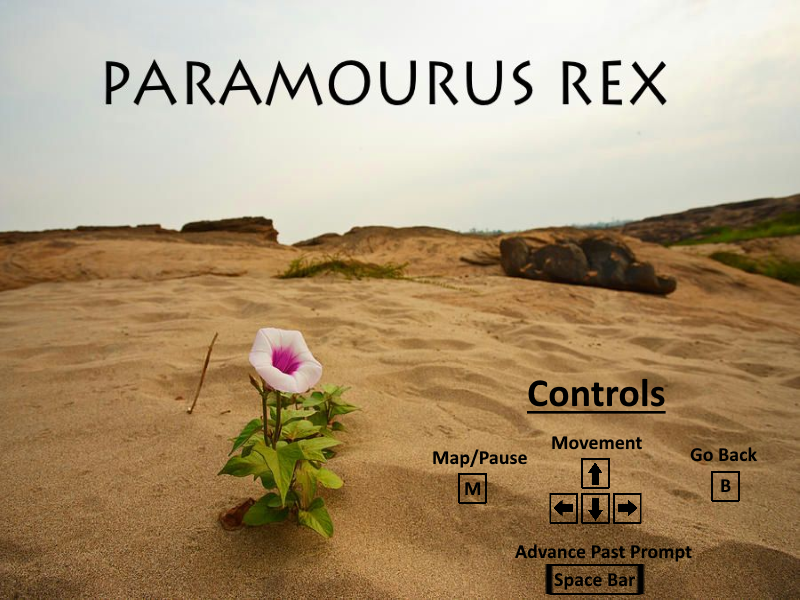
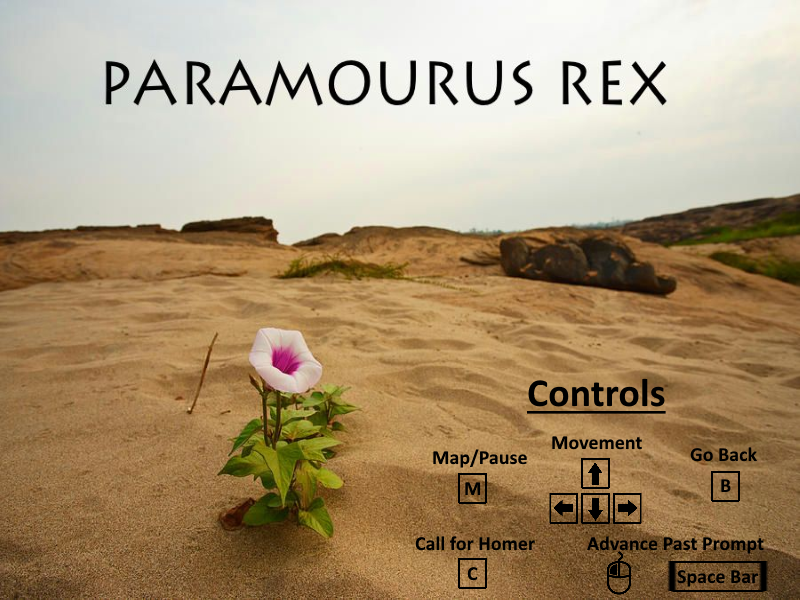
Added Call homer function and fixed bug where vector in level wasnt being reset correctly

Changed region(s): [[0.5, 0.9, 0.9688, 1.0]]

diff --git a/src/LevelView.cpp b/src/LevelView.cpp
@@ -85,6 +85,7 @@ int* LevelView::game_state;
 // pause screen medium map
 bool LevelView::pause_key_pressed = false;
 bool LevelView::back_key_pressed = false;
+bool LevelView::call_key_pressed = false;
 bool LevelView::vases_full = false;
 sf::Text LevelView::title;
 std::string LevelView::title_text;
@@ -123,9 +124,11 @@ void LevelView::Create(const char* resource, int* state, int flowers[]) {
 	reveal_homer = false;
 	pause_key_pressed = false;
 	back_key_pressed = false;
+	call_key_pressed = false;
 	vases_full = false;
 	inVision = 0;
 	flashing = 0;
+	actions.clear();
 	commentary_positions.clear();
 	commentary_strings.clear();
 	commentary_actions.clear();
@@ -327,8 +330,7 @@ void LevelView::Create(const char* resource, int* state, int flowers[]) {
 				//std::cout << tool1.name() << std::endl;
 				actions.push_back(std::vector<pugi::xml_node>());
 				for (pugi::xml_node tool2 = tool1.first_child(); tool2; tool2 = tool2.next_sibling()) {
-					pugi::xml_node temp = tool2;
-					actions.back().push_back(temp);
+					actions.back().push_back(tool2);
 				}
 			}
 		}
@@ -501,6 +503,14 @@ void LevelView::update(sf::RenderWindow *window, int* state, float time) {
 	else if (!sf::Keyboard::isKeyPressed(sf::Keyboard::B)) {
 		back_key_pressed = false;
 	}
+
+	// should we pause the screen?
+	if (sf::Keyboard::isKeyPressed(sf::Keyboard::C) && !call_key_pressed && (view_state == 1)) {
+		call_key_pressed = true;
+		EventInterfacePtr event;
+		event.reset(new ContactEvent(0.f, player->getInstance(), -1));
+		update(event);
+	}
 	
 
 	if (sf::Keyboard::isKeyPressed(sf::Keyboard::Space) && view_state == 0 && ready_to_play && !space_pressed) {
@@ -620,7 +630,7 @@ void LevelView::update(sf::RenderWindow *window, int* state, float time) {
 
 		//Check to see if conditions met to display back button
 		//std::cout << flowers_left << " " << vases_full << " " << inVision << std::endl; 
-		if ((flowers_left <= 0 || vases_full) && inVision <= 0) {
+		if ((flowers_left <= 0 || vases_full || call_key_pressed) && inVision <= 0) {
 			if (view_state == 2 && last_action == -1)
 				reveal_homer = true;
 			else if (view_state != 2) {
@@ -706,21 +716,24 @@ void LevelView::update(EventInterfacePtr e) {
 				ActorId display_id = itr_cs->first.first;
 				ActorId actor_id = itr_cs->first.second.first;
 				ActorId contact_id = itr_cs->first.second.second;
-				if (actor_ptr == NULL && contact_ptr == NULL && display_id == "Homer" && contact_id == "") {
+				//std::cout << "HERE1" << std::endl;
+				if (actor_ptr == NULL && contact_ptr == NULL && (display_id == "Homer" || display_id == "Player")  && contact_id == "") {
 					found  = true;
 				}
-				else if (actor_ptr == NULL && display_id == "Homer") {
+				else if (actor_ptr == NULL && contact_ptr != NULL && display_id == "Homer") {
 					if (contact_ptr->isOfType(contact_id))
 						found = true;
 				}
-				else if (contact_ptr == NULL && contact_id == "") {
+				else if (contact_ptr == NULL && actor_ptr != NULL && contact_id == "") {
 					if (actor_ptr->isOfType(actor_id))
 						found = true;
 				}
-				else if (actor_ptr->isOfType(actor_id) && contact_ptr->isOfType(contact_id)) {
-					found = true;
+				else if (actor_ptr != NULL && contact_ptr != NULL ) {
+					if (actor_ptr->isOfType(actor_id) && contact_ptr->isOfType(contact_id))
+						found = true;
 				}
 				if (found) {
+					//std::cout << "HERE2" << std::endl;
 					int count = -1;
 					int temp_count = -1;
 					for (auto itr_occ = commentary_occurance[DisplayContactPair(display_id, ContactPair(actor_id, contact_id))].begin(); itr_occ != commentary_occurance[DisplayContactPair(display_id, ContactPair(actor_id, contact_id))].end(); itr_occ++) {
@@ -736,19 +749,23 @@ void LevelView::update(EventInterfacePtr e) {
 						}
 					}
 					if (count >= 0) {
+						//std::cout << "HERE3" << std::endl;
 						int action = commentary_actions[DisplayContactPair(display_id, ContactPair(actor_id, contact_id))][count];
 						last_action = action;
 						if (action >= 0) {
 							for (auto action_itr = actions[action].begin(); action_itr != actions[action].end(); action_itr++) {
+								//std::cout << "GENERATED" << std::endl;
 								pugi::xml_node temp = *action_itr;
 								if (!strcmp(temp.name(), "FireFlower") || !strcmp(temp.name(), "EarthFlower") || !strcmp(temp.name(), "WaterFlower") || !strcmp(temp.name(), "AirFlower"))
 									flowers_left++;
+								//std::cout << "GENERATED2" << std::endl;
 								generateActor(&(temp), game_state);
 							}
 						}
 						else if (action == -1) {
 							reveal_homer = true;
 						}
+						//std::cout << "HERE4" << std::endl;
 						int r = rand() % (itr_cs->second)[count].size();
 						if (display_id == "Homer") {
 							commentary[-1] = sf::Text(((itr_cs->second)[count])[r], font);
@@ -760,6 +777,7 @@ void LevelView::update(EventInterfacePtr e) {
 							received_new_commentary = true;
 						}
 						else {
+							//std::cout << "Here4 " << display_id << " " << actor_id << " " << contact_id << " " << action << " " << ((itr_cs->second)[count])[r] <<  std::endl;
 							commentary[e->getSender()] = sf::Text(((itr_cs->second)[count])[r], font);
 							commentary[e->getSender()].setCharacterSize((commentary_sizes[DisplayContactPair(display_id, ContactPair(actor_id, contact_id))]).back());
 							commentary_timer[e->getSender()].restart();
@@ -807,7 +825,7 @@ void LevelView::render(sf::RenderWindow *window) {
 		for (it = actorList.begin(); it != actorList.end(); it++) {
 			if (homer != *it) {
 				(*it)->render(window, false);
-				if ((view_state == 2 && commentary_timer[(*it)->getInstance()].getElapsedTime().asSeconds() < 30) || (commentary_timer[(*it)->getInstance()].getElapsedTime().asSeconds() < 4))
+				if ((commentary_timer[(*it)->getInstance()].getElapsedTime().asSeconds() < 4))
 					window->draw(commentary[(*it)->getInstance()]);
 			}
 		}

diff --git a/src/TitleView.cpp b/src/TitleView.cpp
@@ -120,7 +120,7 @@ void TitleView::update(sf::RenderWindow *window, int* state, float time) {
 		view_state = 0;
 		MapView::level_idx = 0;
 		//In order to display all the levels at once; uncomment line below // remember to comment it before pushing though
-		//MapView::level_idx = 5;
+		MapView::level_idx = 5;
 		MapView::view_state = 1;
 		MapView::commentary_idx = 1;
 		*state = 0;

diff --git a/include/LevelView.h b/include/LevelView.h
@@ -73,6 +73,7 @@ class LevelView  {
 		static float timer_time;
 		static bool pause_key_pressed;
 		static bool back_key_pressed;
+		static bool call_key_pressed;
 		static int* game_state;
 		static int last_action;
 		static sf::Text back_continue;
